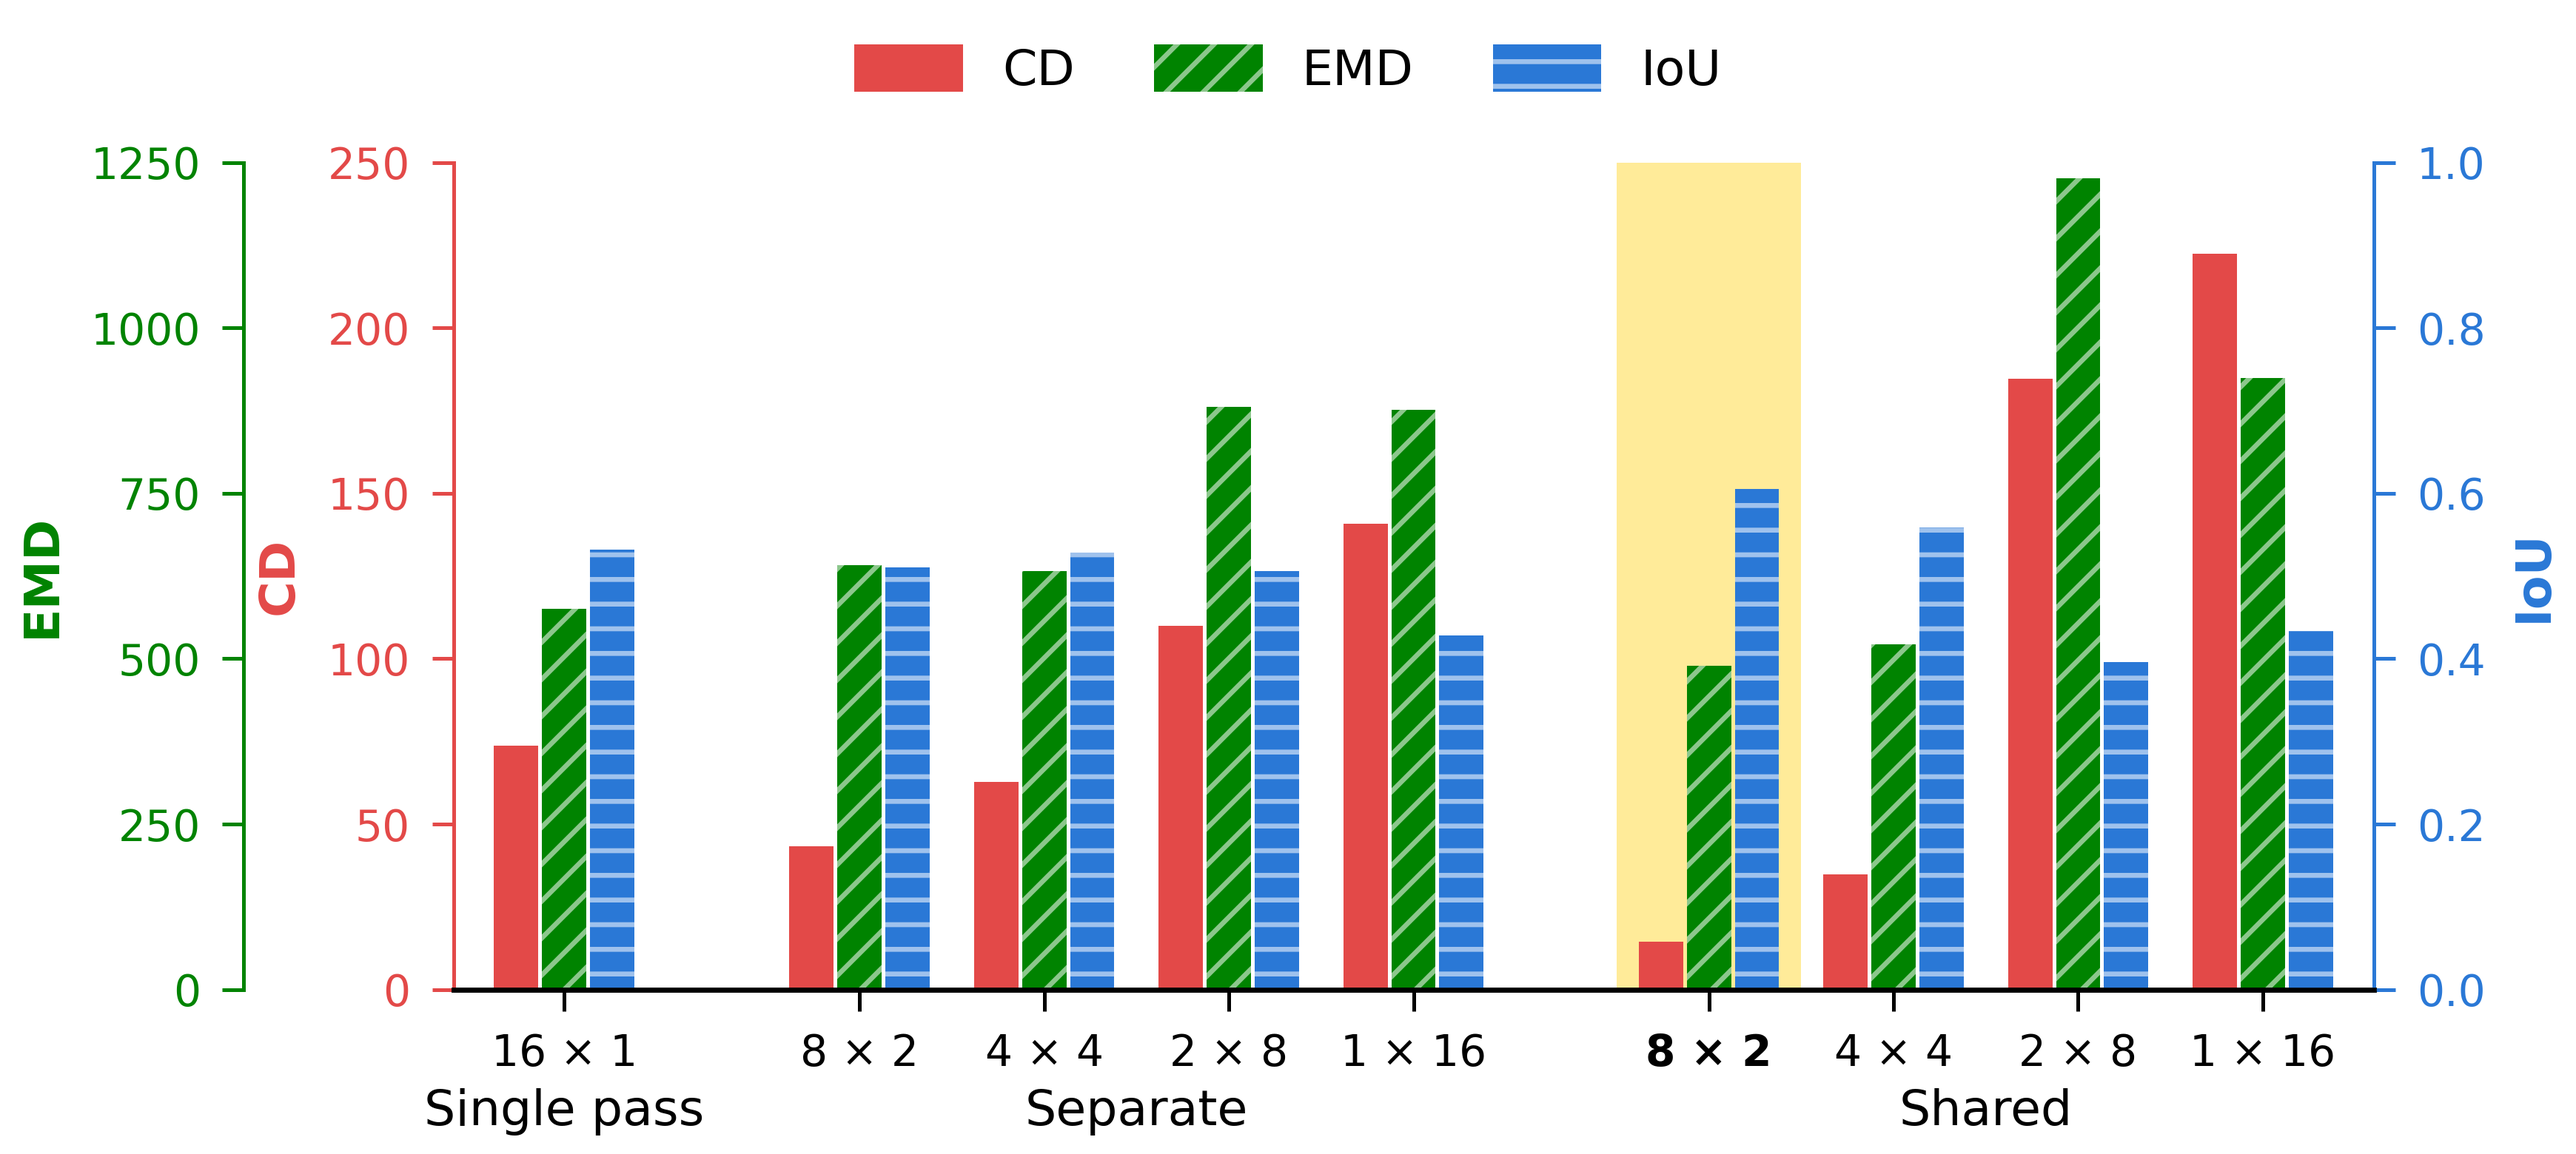
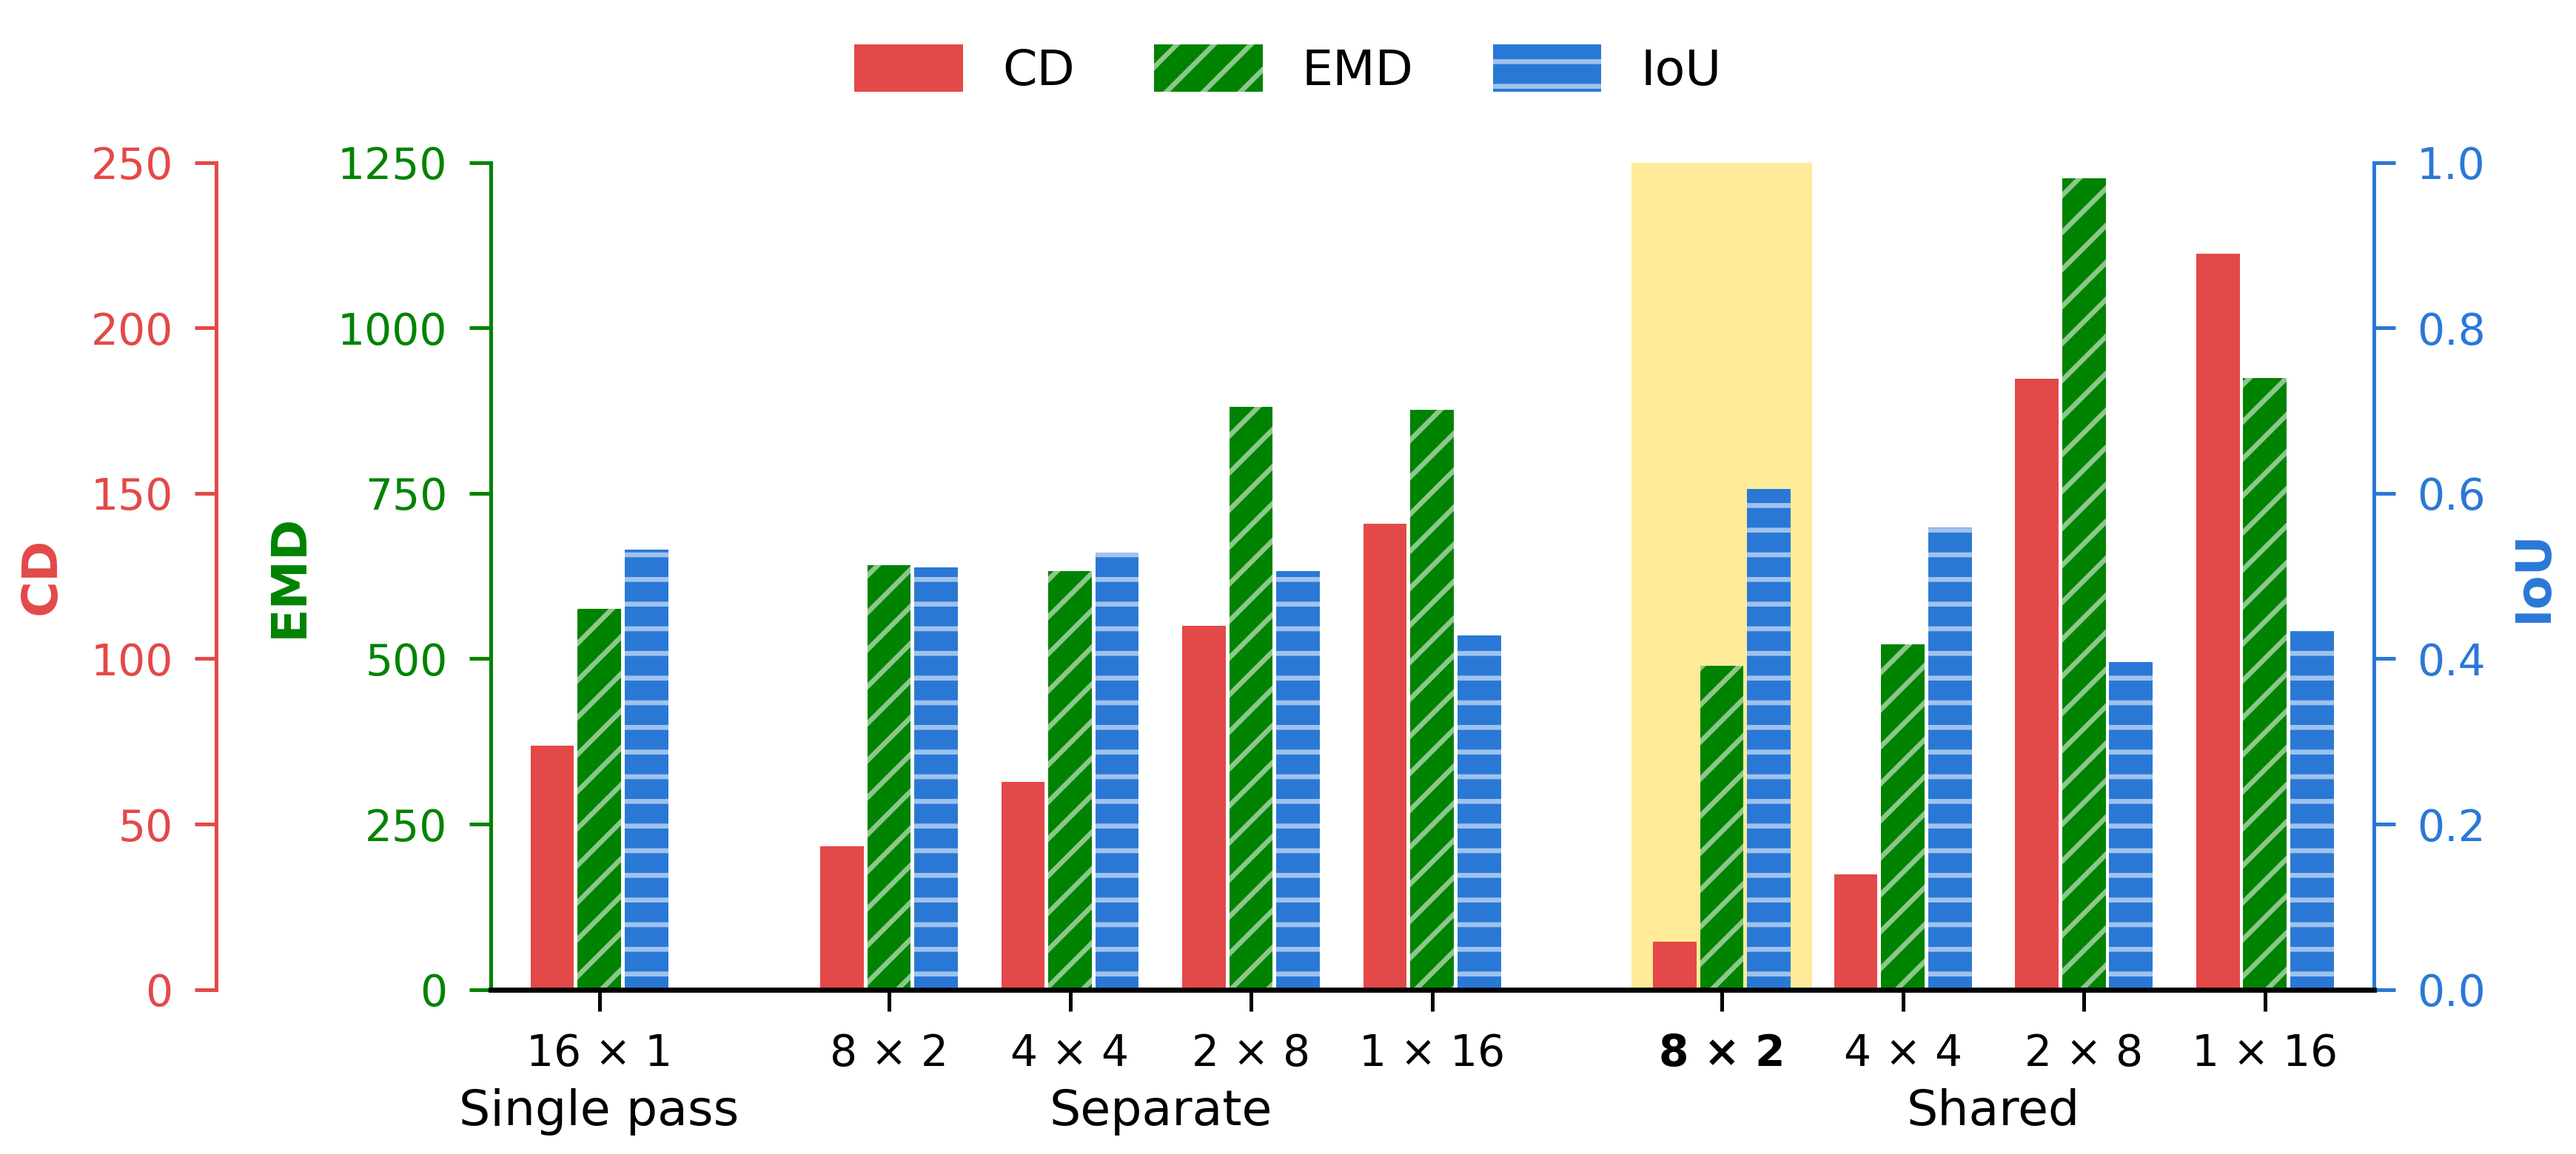
Added discussion on comparison against prior work

diff --git a/Figure Code/Prior Work Comparison Figures/prior_work_comparison_figures.py b/Figure Code/Prior Work Comparison Figures/prior_work_comparison_figures.py
@@ -52,7 +52,7 @@ BAR_GAP = 0.02
 BAND_PADDING = 0.05
 HATCH_LINE_WIDTH = 0.8
 AXIS_LINE_WIDTH = 0.6
-EMD_AXIS_OFFSET = 34
+OUTER_AXIS_GAP = 8
 TICK_FONT_SIZE = 7
 AXIS_FONT_SIZE = 8
 LEGEND_FONT_SIZE = 8
@@ -68,6 +68,14 @@ def style_axis(ax, side, color, label, limit, step):
     ax.tick_params(axis="y", colors=color, labelsize=TICK_FONT_SIZE, width=AXIS_LINE_WIDTH)
 
 
+def place_outer_axis(fig, inner_ax, outer_ax):
+    renderer = fig.canvas.get_renderer()
+    label_left = inner_ax.yaxis.label.get_window_extent(renderer).x0
+    axes_left = inner_ax.get_window_extent(renderer).x0
+    offset = (axes_left - label_left) * 72 / fig.dpi + OUTER_AXIS_GAP
+    outer_ax.spines["left"].set_position(("outward", offset))
+
+
 def highlight_span(ax, left, right):
     ax.axvspan(left, right, color=BAND_COLOR, linewidth=0, zorder=0)
 
@@ -78,19 +86,18 @@ def plot_comparison(results, output_name, cd_range, emd_range, iou_range):
     emd_values = [result[2] for result in results]
     iou_values = [result[3] for result in results]
 
-    fig, cd_ax = plt.subplots(figsize=(FIG_WIDTH, FIG_HEIGHT), dpi=DPI, layout="constrained")
-    emd_ax = cd_ax.twinx()
-    iou_ax = cd_ax.twinx()
+    fig, emd_ax = plt.subplots(figsize=(FIG_WIDTH, FIG_HEIGHT), dpi=DPI, layout="constrained")
+    cd_ax = emd_ax.twinx()
+    iou_ax = emd_ax.twinx()
     fig.set_facecolor(BACKGROUND_COLOR)
-    cd_ax.set_facecolor(BACKGROUND_COLOR)
+    emd_ax.set_facecolor(BACKGROUND_COLOR)
 
-    for ax in (cd_ax, emd_ax, iou_ax):
+    for ax in (emd_ax, cd_ax, iou_ax):
         for side in ("left", "right", "top"):
             ax.spines[side].set_visible(False)
 
-    emd_ax.spines["left"].set_position(("outward", EMD_AXIS_OFFSET))
-    emd_ax.yaxis.set_label_position("left")
-    emd_ax.yaxis.set_ticks_position("left")
+    cd_ax.yaxis.set_label_position("left")
+    cd_ax.yaxis.set_ticks_position("left")
 
     cd_bars = cd_ax.bar(positions - BAR_WIDTH, cd_values, BAR_WIDTH - BAR_GAP, color=CD_COLOR, hatch=CD_HATCH, linewidth=0, label="CD")
     emd_bars = emd_ax.bar(positions, emd_values, BAR_WIDTH - BAR_GAP, color=EMD_COLOR, hatch=EMD_HATCH, edgecolor=EMD_HATCH_COLOR, linewidth=0, label="EMD")
@@ -100,23 +107,26 @@ def plot_comparison(results, output_name, cd_range, emd_range, iou_range):
     style_axis(emd_ax, "left", EMD_COLOR, "EMD", *emd_range)
     style_axis(iou_ax, "right", IOU_COLOR, "IoU", *iou_range)
 
-    cd_ax.set_xlim(positions[0] - 0.6, positions[-1] + 0.6)
-    cd_ax.set_xticks(positions)
-    cd_ax.set_xticklabels([result[0] for result in results])
-    cd_ax.tick_params(axis="x", colors=INK_COLOR, labelsize=TICK_FONT_SIZE, width=AXIS_LINE_WIDTH)
-    cd_ax.spines["bottom"].set_color(INK_COLOR)
-    cd_ax.spines["bottom"].set_linewidth(AXIS_LINE_WIDTH)
+    emd_ax.set_xlim(positions[0] - 0.6, positions[-1] + 0.6)
+    emd_ax.set_xticks(positions)
+    emd_ax.set_xticklabels([result[0] for result in results])
+    emd_ax.tick_params(axis="x", colors=INK_COLOR, labelsize=TICK_FONT_SIZE, width=AXIS_LINE_WIDTH)
+    emd_ax.spines["bottom"].set_color(INK_COLOR)
+    emd_ax.spines["bottom"].set_linewidth(AXIS_LINE_WIDTH)
 
     best_cd = np.argmin(cd_values)
     best_emd = np.argmin(emd_values)
     best_iou = np.argmax(iou_values)
-    highlight_span(cd_ax, positions[best_cd] - 1.5 * BAR_WIDTH - BAND_PADDING, positions[best_cd] - 0.5 * BAR_WIDTH)
-    highlight_span(cd_ax, positions[best_emd] - 0.5 * BAR_WIDTH, positions[best_emd] + 0.5 * BAR_WIDTH)
-    highlight_span(cd_ax, positions[best_iou] + 0.5 * BAR_WIDTH, positions[best_iou] + 1.5 * BAR_WIDTH + BAND_PADDING)
+    highlight_span(emd_ax, positions[best_cd] - 1.5 * BAR_WIDTH - BAND_PADDING, positions[best_cd] - 0.5 * BAR_WIDTH)
+    highlight_span(emd_ax, positions[best_emd] - 0.5 * BAR_WIDTH, positions[best_emd] + 0.5 * BAR_WIDTH)
+    highlight_span(emd_ax, positions[best_iou] + 0.5 * BAR_WIDTH, positions[best_iou] + 1.5 * BAR_WIDTH + BAND_PADDING)
     for best in {best_cd, best_emd, best_iou}:
-        cd_ax.get_xticklabels()[best].set_fontweight("bold")
+        emd_ax.get_xticklabels()[best].set_fontweight("bold")
 
     fig.legend(handles=[cd_bars, emd_bars, iou_bars], loc="outside upper center", ncol=3, frameon=False, fontsize=LEGEND_FONT_SIZE, labelcolor=INK_COLOR, handlelength=2.2, handleheight=1.1, columnspacing=1.6)
+
+    fig.canvas.draw()
+    place_outer_axis(fig, emd_ax, cd_ax)
 
     out_path = os.path.join(_THIS_DIR, output_name)
     fig.canvas.draw()

diff --git a/Figure Code/Cascade Configuration Figure/cascade_configuration_figure.py b/Figure Code/Cascade Configuration Figure/cascade_configuration_figure.py
@@ -53,7 +53,7 @@ BAR_GAP = 0.02
 BAND_HALF_WIDTH = 0.5
 HATCH_LINE_WIDTH = 0.8
 AXIS_LINE_WIDTH = 0.6
-EMD_AXIS_OFFSET = 34
+OUTER_AXIS_GAP = 8
 GROUP_LABEL_OFFSET = -16
 TICK_FONT_SIZE = 7
 AXIS_FONT_SIZE = 8
@@ -81,6 +81,14 @@ def style_axis(ax, side, color, label, limit, step):
     ax.tick_params(axis="y", colors=color, labelsize=TICK_FONT_SIZE, width=AXIS_LINE_WIDTH)
 
 
+def place_outer_axis(fig, inner_ax, outer_ax):
+    renderer = fig.canvas.get_renderer()
+    label_left = inner_ax.yaxis.label.get_window_extent(renderer).x0
+    axes_left = inner_ax.get_window_extent(renderer).x0
+    offset = (axes_left - label_left) * 72 / fig.dpi + OUTER_AXIS_GAP
+    outer_ax.spines["left"].set_position(("outward", offset))
+
+
 def draw_group_labels(ax, positions):
     transform = blended_transform_factory(ax.transData, ax.transAxes)
     groups = []
@@ -101,41 +109,43 @@ def main():
     emd_values = [result[4] for result in RESULTS]
     iou_values = [result[5] for result in RESULTS]
 
-    fig, cd_ax = plt.subplots(figsize=(FIG_WIDTH, FIG_HEIGHT), dpi=DPI, layout="constrained")
-    emd_ax = cd_ax.twinx()
-    iou_ax = cd_ax.twinx()
+    fig, emd_ax = plt.subplots(figsize=(FIG_WIDTH, FIG_HEIGHT), dpi=DPI, layout="constrained")
+    cd_ax = emd_ax.twinx()
+    iou_ax = emd_ax.twinx()
     fig.set_facecolor(BACKGROUND_COLOR)
-    cd_ax.set_facecolor(BACKGROUND_COLOR)
+    emd_ax.set_facecolor(BACKGROUND_COLOR)
 
-    for ax in (cd_ax, emd_ax, iou_ax):
+    for ax in (emd_ax, cd_ax, iou_ax):
         for side in ("left", "right", "top"):
             ax.spines[side].set_visible(False)
 
-    emd_ax.spines["left"].set_position(("outward", EMD_AXIS_OFFSET))
-    emd_ax.yaxis.set_label_position("left")
-    emd_ax.yaxis.set_ticks_position("left")
+    cd_ax.yaxis.set_label_position("left")
+    cd_ax.yaxis.set_ticks_position("left")
 
     cd_bars = cd_ax.bar(positions - BAR_WIDTH, cd_values, BAR_WIDTH - BAR_GAP, color=CD_COLOR, hatch=CD_HATCH, linewidth=0, label="CD")
     emd_bars = emd_ax.bar(positions, emd_values, BAR_WIDTH - BAR_GAP, color=EMD_COLOR, hatch=EMD_HATCH, edgecolor=EMD_HATCH_COLOR, linewidth=0, label="EMD")
     iou_bars = iou_ax.bar(positions + BAR_WIDTH, iou_values, BAR_WIDTH - BAR_GAP, color=IOU_COLOR, hatch=IOU_HATCH, edgecolor=IOU_HATCH_COLOR, linewidth=0, label="IoU")
 
     best_index = np.argmax(iou_values)
-    cd_ax.axvspan(positions[best_index] - BAND_HALF_WIDTH, positions[best_index] + BAND_HALF_WIDTH, color=BAND_COLOR, linewidth=0, zorder=0)
+    emd_ax.axvspan(positions[best_index] - BAND_HALF_WIDTH, positions[best_index] + BAND_HALF_WIDTH, color=BAND_COLOR, linewidth=0, zorder=0)
 
     style_axis(cd_ax, "left", CD_COLOR, "CD", CD_LIMIT, CD_STEP)
     style_axis(emd_ax, "left", EMD_COLOR, "EMD", EMD_LIMIT, EMD_STEP)
     style_axis(iou_ax, "right", IOU_COLOR, "IoU", IOU_LIMIT, IOU_STEP)
 
-    cd_ax.set_xlim(positions[0] - 0.6, positions[-1] + 0.6)
-    cd_ax.set_xticks(positions)
-    cd_ax.set_xticklabels(["{} × {}".format(prims, cascades) for _, prims, cascades, *_ in RESULTS])
-    cd_ax.get_xticklabels()[best_index].set_fontweight("bold")
-    cd_ax.tick_params(axis="x", colors=INK_COLOR, labelsize=TICK_FONT_SIZE, width=AXIS_LINE_WIDTH)
-    cd_ax.spines["bottom"].set_color(INK_COLOR)
-    cd_ax.spines["bottom"].set_linewidth(AXIS_LINE_WIDTH)
-    draw_group_labels(cd_ax, positions)
+    emd_ax.set_xlim(positions[0] - 0.6, positions[-1] + 0.6)
+    emd_ax.set_xticks(positions)
+    emd_ax.set_xticklabels(["{} × {}".format(prims, cascades) for _, prims, cascades, *_ in RESULTS])
+    emd_ax.get_xticklabels()[best_index].set_fontweight("bold")
+    emd_ax.tick_params(axis="x", colors=INK_COLOR, labelsize=TICK_FONT_SIZE, width=AXIS_LINE_WIDTH)
+    emd_ax.spines["bottom"].set_color(INK_COLOR)
+    emd_ax.spines["bottom"].set_linewidth(AXIS_LINE_WIDTH)
+    draw_group_labels(emd_ax, positions)
 
     fig.legend(handles=[cd_bars, emd_bars, iou_bars], loc="outside upper center", ncol=3, frameon=False, fontsize=LEGEND_FONT_SIZE, labelcolor=INK_COLOR, handlelength=2.2, handleheight=1.1, columnspacing=1.6)
+
+    fig.canvas.draw()
+    place_outer_axis(fig, emd_ax, cd_ax)
 
     out_path = os.path.join(_THIS_DIR, OUTPUT_NAME)
     fig.canvas.draw()

diff --git a/Discussion.tex b/Discussion.tex
@@ -8,20 +8,24 @@ This section summarizes the main insights gained from the \nameref{chap:experime
 \begin{figure}[!htb]
 	\centering
 	\includegraphics[width=\textwidth]{Images/Cascade Configuration Figure.png}
-	\caption{Bar graph of the data in table~\ref{tab:input_size_comparison}. Lower is better for CD and EMD. Higher is better for IoU. The configuration format is~$\text{primitives per cascade} \times \text{number of cascades}$.}
+	\caption{Bar graph of the data in table~\ref{tab:input_size_comparison}. Lower is better for CD and EMD. Higher is better for IoU. The cascaded refinement configuration format is~$\text{primitives per cascade} \times \text{number of cascades}$.}
 	\label{fig:prims_per_cascade_comparison}
 \end{figure}
+
+The \nameref{sec:prior_work_comparison} experiment further demonstrates the viability of cascaded refinement. Figure~\ref{fig:prior_work_seen_comparison} shows the CSG-CRN model ranking first against competing models in all accuracy metrics for average reconstruction quality of seen shape categories. CSG-CRN has a big lead in EMD and IoU metrics with the SuperDec model trailing closely behind on the CD metric. We attribute the high performance of CSG-CRN to the cascaded refinement strategy considering the encoder and decoder networks are not novel and are outdated compared to recent related works.
 
 \begin{figure}[!htb]
 	\centering
 	\includegraphics[width=\textwidth]{Images/Prior Work Seen Comparison.png}
-	\caption{}
+	\caption{Bar graph of the data in table~\ref{tab:prior_work_seen_comparison}. Lower is better for CD and EMD. Higher is better for IoU.}
 	\label{fig:prior_work_seen_comparison}
 \end{figure}
+
+Figure \ref{fig:prior_work_unseen_comparison} shows the performance of CSG-CRN on unseen shape categories. CSG-CRN and SuperDec perform very similarly to each other, with both outperforming the remaining works by a large margin. This result demonstrates that the cascaded refinement strategy enables strongly generalizability that rivals the current state of the art.
 
 \begin{figure}[!htb]
 	\centering
 	\includegraphics[width=\textwidth]{Images/Prior Work Unseen Comparison.png}
-	\caption{}
+	\caption{Bar graph of the data in table~\ref{tab:prior_work_seen_comparison}. Lower is better for CD and EMD. Higher is better for IoU.}
 	\label{fig:prior_work_unseen_comparison}
 \end{figure}
